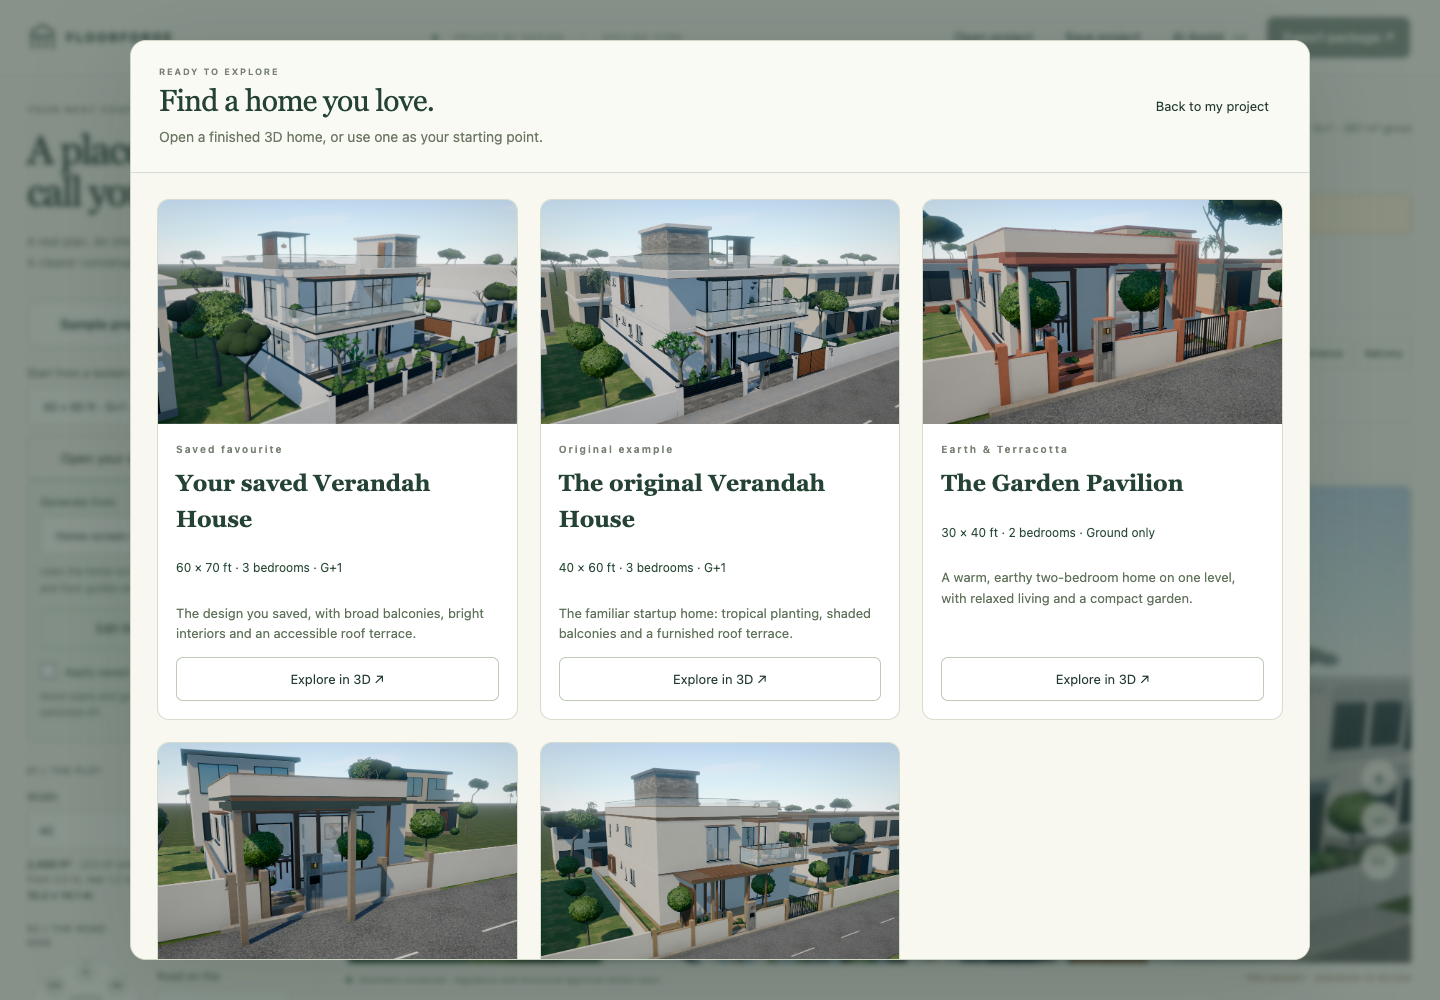
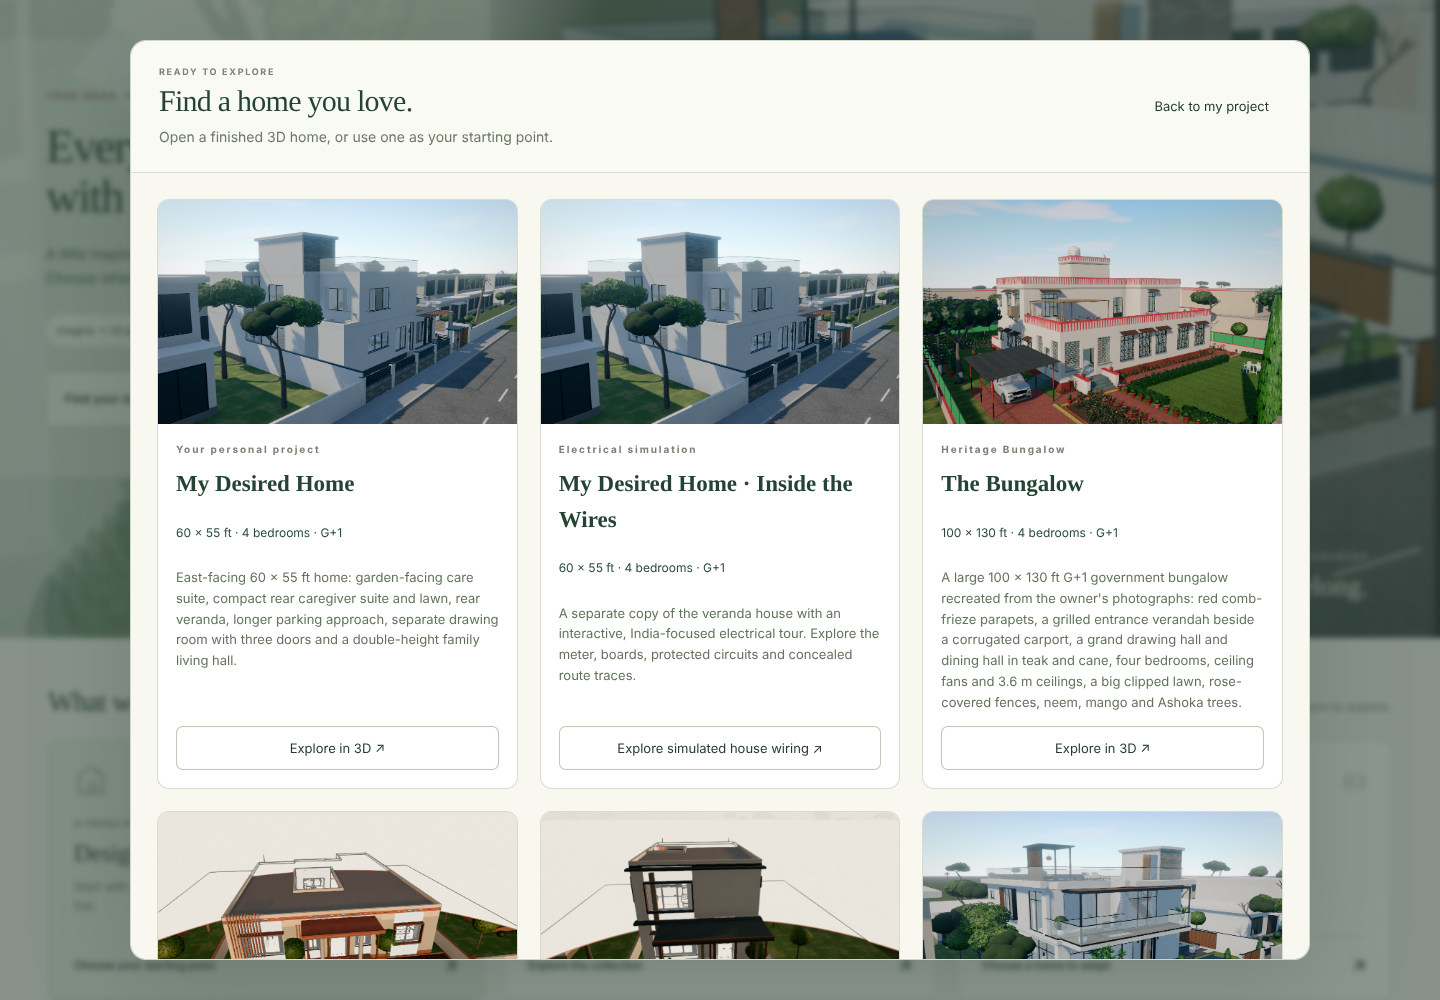
Update the sample gallery check for the start page and full catalogue
The studio now opens on its start page, where the sidebar gallery button
is hidden, so scripts/check_sample_gallery.mjs timed out on its first
click. Open the gallery through the "Walk through sample homes" start
card instead. A refresh also lands on the start page, so continue into
the workspace before checking "Back to my previous project".

Compare the cards with /api/samples instead of expecting six, and scroll
each lazily loaded card into view before checking its thumbnail.

Under software WebGL a 3D frame can take tens of seconds, and clicks,
waits and screenshots all wait for frames. Timed runs needed up to 73 s
for a click and 63 s for a screenshot, so the 30 s defaults made the
check fail intermittently. Give every action the 180 s the script
already allows its explicit waits.

Describe the current catalogue in the README's gallery section without a
fixed count, and refresh evidence/sample-gallery/ from a passing run.

Claude-Session: https://claude.ai/code/session_0194dKjqiQp4C935E7CVLZmR

diff --git a/README.md b/README.md
@@ -197,9 +197,16 @@ Enable **Stairs to roof terrace** and regenerate to extend the actual linked cor
 
 ## Sample project gallery
 
-Open **Sample projects · explore in 3D** in the left sidebar for five completed homes with rendered thumbnails: the saved Verandah House, the original startup example, Garden Pavilion, Quiet Studio and Palm Terrace Villa. Explore their exteriors, furnished floor plans and walkthroughs immediately. Browsing keeps the current project untouched. **Use this sample** loads an editable copy, and **Back to my previous project** restores the preceding project.
+Choose **Walk through sample homes** on the start page, or **Sample projects · explore in 3D** in the studio’s left sidebar, to browse every completed home listed in `examples/gallery/catalog.json`, each with a rendered thumbnail:
 
-Rebuild curated variants with `.venv/bin/python scripts/build_sample_gallery.py`; render their thumbnails with `scripts/capture_sample_gallery.mjs`. The saved favourite’s clean source brief is kept under `examples/gallery/briefs/`.
+- **My Desired Home**, a personal 60 × 55 ft project, with its preserved original 50 × 50 ft version and **Inside the Wires**, a separate copy with an interactive electrical wiring tour.
+- **The Bungalow**, the heritage government bungalow described below.
+- **The Aangan House** and **The Long House**, which open as Plan Reveal walkthroughs (see [Walk in from the plan](#walk-in-from-the-plan)).
+- The saved Verandah House, the original startup example, Garden Pavilion, Quiet Studio and Palm Terrace Villa.
+
+Explore their exteriors, furnished floor plans and walkthroughs immediately. Browsing keeps the current project untouched. **Open project & all views** loads an editable copy, and **Back to my previous project** restores the preceding project.
+
+Rebuild curated variants with `.venv/bin/python scripts/build_sample_gallery.py`; render their thumbnails with `scripts/capture_sample_gallery.mjs`. The saved favourite’s clean source brief is kept under `examples/gallery/briefs/`. `scripts/check_sample_gallery.mjs` checks the gallery in a browser and writes its screenshots and results to `evidence/sample-gallery/`.
 
 **The Bungalow** is a large, nostalgic G+1 government bungalow on a 100 × 130 ft plot, recreated from the owner’s photographs: a red comb frieze on every parapet, a grilled entrance verandah beside a corrugated carport, 3.6 m ceilings with fans, distemper-painted rooms with teak, cane and steel furniture, and a big garden of hex-paver paths, pots, hedged lawns, rose fences and neem, mango and Ashoka trees. It uses the opt-in `heritage-bungalow` facade style of the custom plan format (`wallPaint`, `floorFinish` and opening `grille` fields); every other plan and sample is unchanged. Rebuild it with `.venv/bin/python scripts/build_bungalow.py` and read its `DESIGN_GUIDE.md`. Browser captures of its exterior and rooms are in `evidence/bungalow/`.
 
